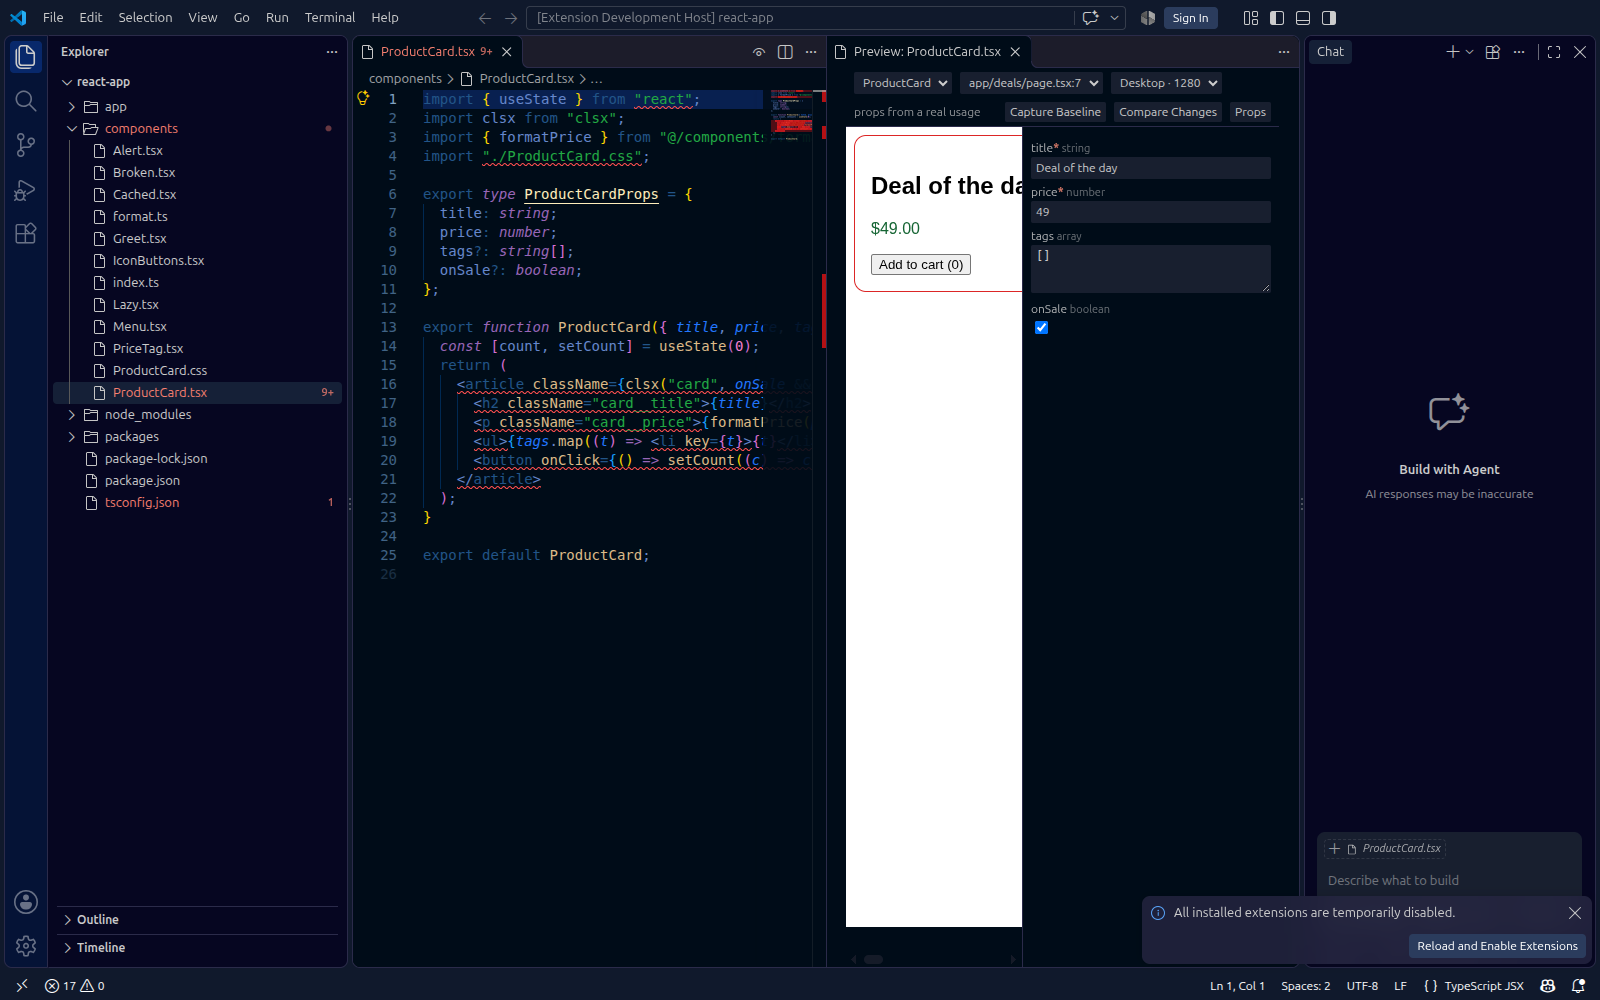
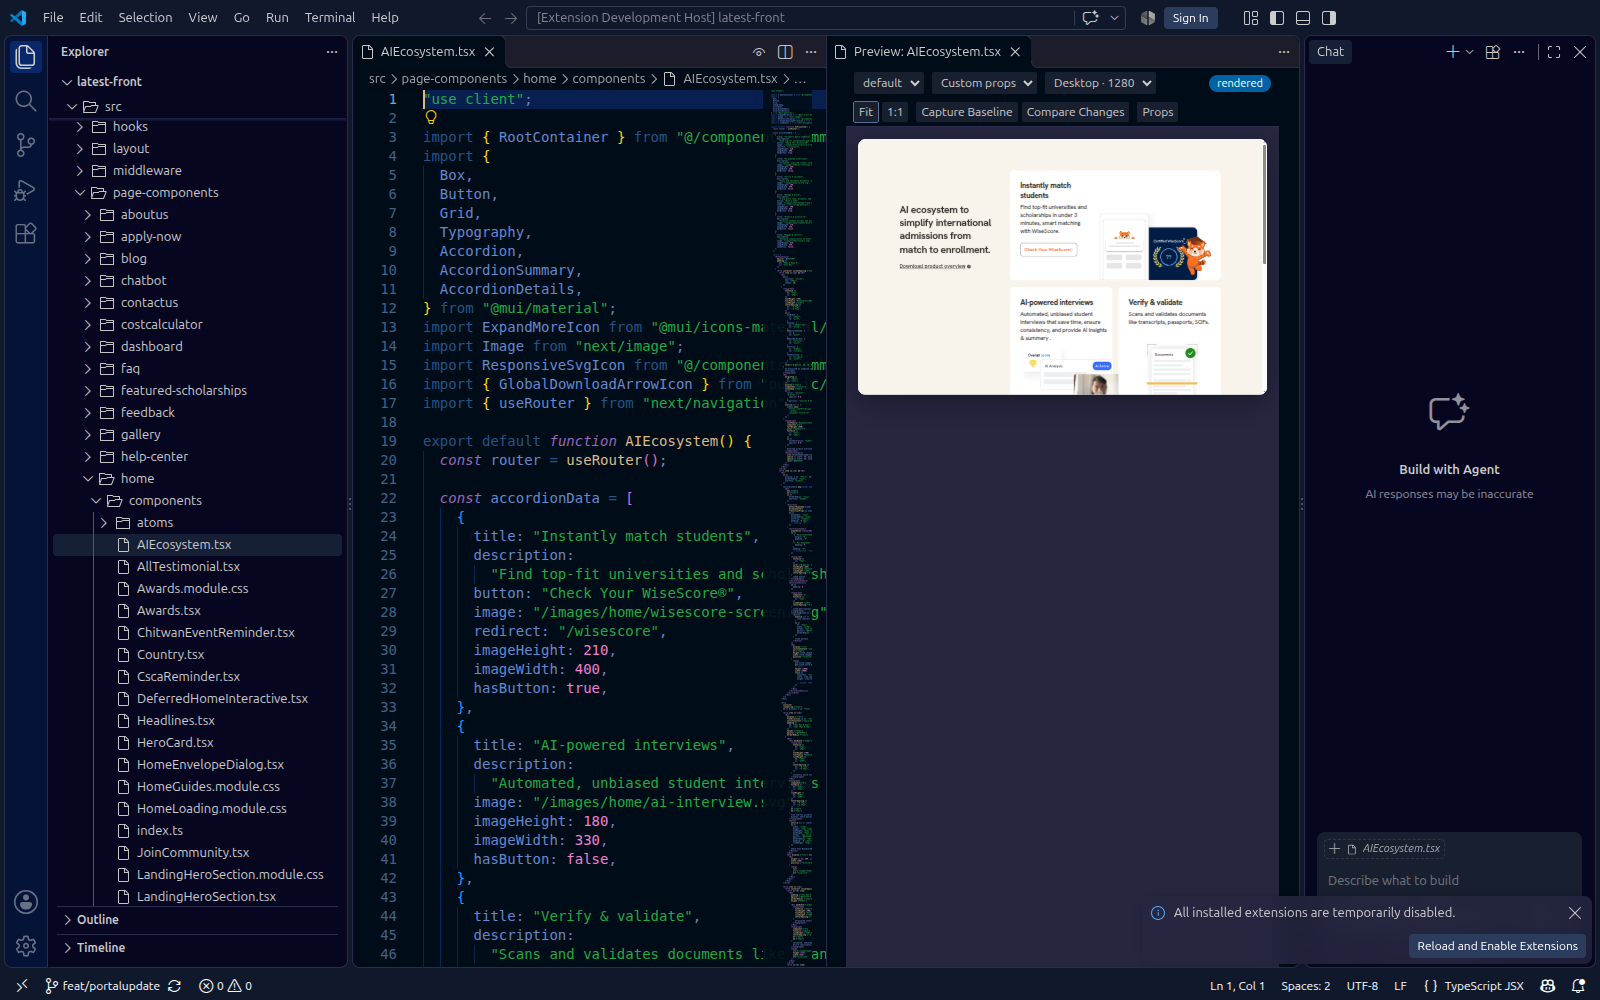
Panel UI: preview scaled to fit the panel (Fit / 1:1), status chip, props form closed by default; serve and the panel wrap renders in the page's layouts and templates like the headless renderer (shared routeFor); README screenshot on a real app

diff --git a/src/extension/extension.ts b/src/extension/extension.ts
@@ -1,4 +1,6 @@
 import * as vscode from "vscode";
+import { findUsages } from "../usages/findUsages.js";
+import { routeFor } from "../project/routeFor.js";
 import { existsSync } from "node:fs";
 import path from "node:path";
 import type { PreviewServer } from "../server/createPreviewServer.js";
@@ -161,6 +163,7 @@ class PreviewPanel implements vscode.Disposable {
     let index = this.indexes.get(root);
     if (!index) { index = createUsageIndex(root, { readSource: server.readSource, version: server.version }); this.indexes.set(root, index); }
     const target = await this.targetFor(root, file, source, exportName);
+    target.route = await routeFor(root, file, target.exportName, undefined, (f: string, x?: string) => findUsages(root, f, x));
     const usages = await index.list(file, target.exportName);
     const schema = await propsSchema(file, target.exportName).catch(() => []);
     if (sequence !== this.showSequence || !this.panel) return;
@@ -336,8 +339,14 @@ function webviewHtml(origin: string, pageUrl: string): string {
   #bar .spacer { flex: 1; }
   #bar .source { opacity: .7; }
   #main { display: flex; flex: 1; min-height: 0; }
-  #stage { flex: 1; overflow: auto; min-width: 0; }
-  iframe { display: block; border: 0; background: #fff; width: 1280px; height: 800px; }
+  #stage { flex: 1; overflow: auto; min-width: 0; position: relative; background: var(--vscode-editorWidget-background, #1e1e1e); }
+  /* The preview keeps its real viewport size and is scaled to fit the panel; 1:1 shows it unscaled. */
+  #frameBox { position: relative; margin: 12px auto; box-shadow: 0 8px 30px rgba(0,0,0,.35); border-radius: 8px; overflow: hidden; }
+  iframe { display: block; border: 0; background: #fff; width: 1280px; height: 800px; transform-origin: top left; }
+  #status { font-size: 11px; padding: 2px 8px; border-radius: 10px; background: var(--vscode-badge-background); color: var(--vscode-badge-foreground); }
+  #status.error { background: var(--vscode-errorForeground); color: #fff; }
+  #bar .group { display: inline-flex; gap: 4px; align-items: center; }
+  #bar button.on { outline: 1px solid var(--vscode-focusBorder); }
   #verification { padding: 8px; border-top: 1px solid var(--vscode-panel-border); max-height: 45%; overflow: auto; }
   #verification:empty { display: none; }
   #verification .images { display: grid; grid-template-columns: repeat(3, minmax(0, 1fr)); gap: 8px; }
@@ -360,18 +369,34 @@ function webviewHtml(origin: string, pageUrl: string): string {
   <select id="viewport" aria-label="Viewport"><option value="mobile">Mobile · 390</option><option value="tablet">Tablet · 820</option><option value="desktop" selected>Desktop · 1280</option></select>
   <span class="source" id="source"></span>
   <span class="spacer"></span>
-  <button id="capture">Capture Baseline</button>
-  <button id="compare" disabled>Compare Changes</button>
+  <span id="status" title="Render status">loading</span>
+  <span class="group"><button id="fit" class="on" title="Scale the preview to fit the panel">Fit</button><button id="full" title="Show at the real size">1:1</button></span>
+  <span class="group"><button id="capture">Capture Baseline</button><button id="compare" disabled>Compare Changes</button></span>
   <button id="toggle" title="Edit props">Props</button>
 </div>
 <div id="main">
-  <div id="stage"><iframe id="preview" title="Component preview" src="${pageUrl}" allow="clipboard-read; clipboard-write"></iframe></div>
+  <div id="stage"><div id="frameBox"><iframe id="preview" title="Component preview" src="${pageUrl}" allow="clipboard-read; clipboard-write"></iframe></div></div>
   <div id="props"></div>
 </div>
 <div id="verification" role="status" aria-live="polite"></div>
 <script nonce="${nonce}">
 const vscode = acquireVsCodeApi();
 const frame = document.getElementById("preview");
+const stage = document.getElementById("stage"), frameBox = document.getElementById("frameBox"), statusChip = document.getElementById("status");
+let fitMode = true;
+/** Scales the real-size iframe to the panel width (or 1:1), so wide viewports stay readable in a narrow panel. */
+function layout() {
+  const vw = frame.offsetWidth || 1280, vh = frame.offsetHeight || 800;
+  const available = stage.clientWidth - 24;
+  const scale = fitMode ? Math.min(1, available / vw) : 1;
+  frame.style.transform = "scale(" + scale + ")";
+  frameBox.style.width = Math.round(vw * scale) + "px";
+  frameBox.style.height = Math.round(vh * scale) + "px";
+}
+new ResizeObserver(layout).observe(stage);
+new ResizeObserver(layout).observe(frame);
+document.getElementById("fit").onclick = () => { fitMode = true; document.getElementById("fit").classList.add("on"); document.getElementById("full").classList.remove("on"); layout(); };
+document.getElementById("full").onclick = () => { fitMode = false; document.getElementById("full").classList.add("on"); document.getElementById("fit").classList.remove("on"); layout(); };
 const form = document.getElementById("props");
 const exportSelect = document.getElementById("export");
 let state;
@@ -379,7 +404,11 @@ vscode.postMessage({ type: "ready" });
 
 addEventListener("message", (event) => {
   const data = event.data;
-  if (event.source === frame.contentWindow && data?.source === "arguseye") vscode.postMessage(data);        // from the preview page
+  if (event.source === frame.contentWindow && data?.source === "arguseye") {
+    vscode.postMessage(data);        // from the preview page
+    statusChip.textContent = data.status === "error" ? (data.errors?.length ?? 1) + " error" + ((data.errors?.length ?? 1) === 1 ? "" : "s") : data.status === "mounted" ? "rendered" : data.status;
+    statusChip.className = data.status === "error" ? "error" : "";
+  }
   else if (data?.type === "show") frame.contentWindow.postMessage({ type: "cp:show", target: data.target }, "*");
   else if (data?.type === "verification") {
     const host = document.getElementById("verification"); host.replaceChildren();
@@ -414,7 +443,6 @@ function renderBar() {
   document.getElementById("verification").replaceChildren();
   exportSelect.innerHTML = state.exports.map((n) => \`<option \${n === state.exportName ? "selected" : ""}>\${n}</option>\`).join("");
   document.getElementById("source").textContent = { usage: "props from a real usage", sample: "sample props from the type", given: "edited props", none: "" }[state.propsSource];
-  if (state.schema.length && !form.childElementCount) form.classList.add("open");
 }
 
 /** One control per prop, by kind; function props are not editable from here. */

diff --git a/src/agent/createRenderer.ts b/src/agent/createRenderer.ts
@@ -1,4 +1,5 @@
 import { randomUUID } from "node:crypto";
+import { routeFor } from "../project/routeFor.js";
 import { defaultRouteFile } from "../project/appContext.js";
 import path from "node:path";
 import { compareCaptures, type DiffResult } from "./compareCaptures.js";
@@ -228,14 +229,7 @@ export async function createRenderer(options: { root: string; server?: PreviewSe
           target.contextFile = path.resolve(options.root, found.id.split(":")[0]);
         }
       }
-      // The page whose layouts and templates wrap the render: the usage's page, else a page that uses it, else the most common route.
-      const usageFile = (id: string) => path.resolve(options.root, id.split(":")[0]);
-      let route = usage ? usageFile(usage) : resolved ? usageFile(resolved.id) : undefined;
-      if (!route) {
-        const any = (await usages.list(rest.file, rest.exportName)).find((u) => /(^|\/)page\.[jt]sx?:/.test(u.id));
-        route = any ? usageFile(any.id) : rest.file.includes(`${path.sep}app${path.sep}`) ? rest.file : defaultRouteFile(options.root);
-      }
-      target.route = route;
+      target.route = resolved ? path.resolve(options.root, resolved.id.split(":")[0]) : await routeFor(options.root, rest.file, rest.exportName, usage, (f, e) => usages.list(f, e));
       const contextApplied = target.context?.map((w) => (w.kind === "host" ? w.tag : w.member ? `${w.importName}.${w.member}` : w.importName === "default" ? path.basename(w.source) : w.importName));
       const key = `${rest.file.endsWith(".vue") ? "vue" : "react"}:${viewport.width}x${viewport.height}`;
       let warm = pages.get(key);

diff --git a/src/cli.ts b/src/cli.ts
@@ -9,6 +9,7 @@ import { createRenderer } from "./agent/createRenderer.js";
 import { createMcpServer } from "./agent/mcpServer.js";
 import { createPreviewServer } from "./server/createPreviewServer.js";
 import { findUsages } from "./usages/findUsages.js";
+import { routeFor } from "./project/routeFor.js";
 
 const HELP = `arguseye: inspect React and Vue components and verify UI edits, no dev server
 
@@ -84,7 +85,8 @@ if (values.help || !command) {
   const target = { file: path.resolve(root, file), exportName: values.export };
   let props = values.props ? JSON.parse(values.props) : undefined;
   if (values.usage) props = { ...(await findUsages(root, target.file, target.exportName)).find((u) => u.id === values.usage)?.props, ...props };
-  console.log(`${server.url}${server.pageUrl({ ...target, props })}`);
+  const route = await routeFor(root, target.file, target.exportName, values.usage, (f, e) => findUsages(root, f, e));
+  console.log(`${server.url}${server.pageUrl({ ...target, props, route })}`);
   const stop = async () => { await server.close(); process.exit(0); };
   process.on("SIGINT", stop);
   process.on("SIGTERM", stop);

diff --git a/src/project/routeFor.ts b/src/project/routeFor.ts
@@ -1,0 +1,22 @@
+import path from "node:path";
+import { defaultRouteFile } from "./appContext.js";
+import type { Usage } from "../usages/findUsages.js";
+
+/**
+ * The page whose layouts and templates should wrap a render of `file`: the usage's page, else a page that uses
+ * the component, else the file itself when it lives under app/, else the project's most common route.
+ */
+export async function routeFor(
+  root: string,
+  file: string,
+  exportName: string | undefined,
+  usageId: string | undefined,
+  listUsages: (file: string, exportName?: string) => Promise<Usage[]>,
+): Promise<string | undefined> {
+  const usageFile = (id: string) => path.resolve(root, id.split(":")[0]);
+  if (usageId) return usageFile(usageId);
+  const any = (await listUsages(file, exportName).catch(() => [] as Usage[])).find((u) => /(^|\/)page\.[jt]sx?:/.test(u.id));
+  if (any) return usageFile(any.id);
+  if (file.includes(`${path.sep}app${path.sep}`)) return file;
+  return defaultRouteFile(root);
+}
